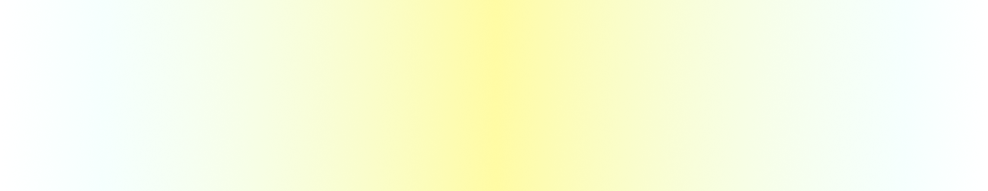
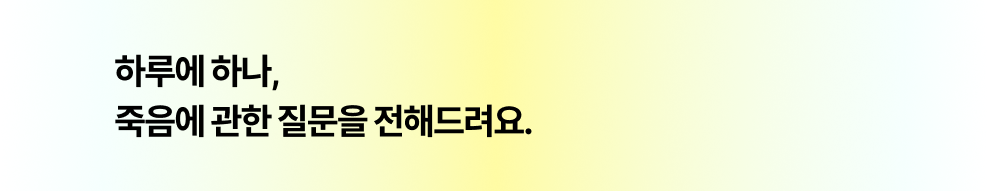
페이지 제작 및 스크롤 고정

Changed region(s): [[0.0911, 0.5497, 0.5466, 0.733], [0.0911, 0.288, 0.3036, 0.4712]]

diff --git a/src/pages/SevenDays.jsx b/src/pages/SevenDays.jsx
@@ -2,11 +2,40 @@ import React from 'react';
 import { Link } from 'react-router-dom';
 import Header from './components/Header';
 import Footer from './components/Footer';
+import SevenDaysQuote from './pageimg/SevenDaysQuote.png';
+import SevenDaysNotice from './pageimg/SevenDaysNotice.png';
+import SevenDaysHowto from './pageimg/SevenDaysHowto.png';
+import StartButton from './pageimg/StartButton.png';
+import './SevenDays.css';
+
 
 const SevenDays = () => {
     return (
         <>
         <Header/>
+        <br/><br/>
+        <div id="container">
+            <div class="contents">
+                <img className="sevendaysnotice" alt="sevendaysnotice" src={SevenDaysNotice} />
+            </div>
+        </div>
+        <br/><br/>
+        <div id="container">
+            <div class="contents">
+                <img className="sevendaysquote" alt="sevendaysquote" src={SevenDaysQuote} />
+            </div>
+        </div>
+        <br/><br/>
+        <div id="container">
+            <div class="contents">
+                <img className="sevendayshowto" alt="sevendayshowto" src={SevenDaysHowto} />
+            </div>
+        </div>
+        <br/><br/>
+        <div> <p>문답을 시작하시겠어요?</p> </div>
+        <div class="contents">
+            <Link to ="/dayone"><img alt="start" src={StartButton} /></Link>
+        </div>
         <Footer/>
         </>
     );

diff --git a/src/pages/DayOne.jsx b/src/pages/DayOne.jsx
@@ -1,16 +1,16 @@
 import React from 'react';
 import { Link } from 'react-router-dom';
 import Header from './components/Header';
-import SevenDayNotice from './pageimg/SevenDayNotice.png';
+import SevenDaysNotice from './pageimg/SevenDaysNotice.png';
 import './DayOne.css';
 import SevenDaysCard from './components/SevenDaysCard';
 
-const LoginPage = () => {
+const DayOne = () => {
     return (
         <>
         <Header/>
         <br/><br/><br/>
-        <div class="notice"><img alt="notice"src={SevenDayNotice} /></div>
+        <div class="notice"><img alt="notice"src={SevenDaysNotice} /></div>
         <br/><br/><br/>
         <SevenDaysCard/>
         <br/><br/><br/>
@@ -18,4 +18,4 @@ const LoginPage = () => {
     );
 };
 
-export default LoginPage;
+export default DayOne;

diff --git a/src/App.jsx b/src/App.jsx
@@ -6,6 +6,7 @@ import Home from './pages/Home';
 import AboutOtr from './pages/AboutOtr';
 import SevenDays from './pages/SevenDays';
 import LoginPage from './pages/LoginPage';
+import DayOne from './pages/DayOne';
 
 class App extends Component {
   render() {
@@ -16,6 +17,7 @@ class App extends Component {
         <Route path="/details" element={<AboutOtr/>}></Route>
         <Route path="/sevendays" element={<SevenDays/>}></Route>
         <Route path="/login" element={<LoginPage/>}></Route>
+        <Route path="/dayone" element={<DayOne/>}></Route>
       </Routes>
       </>
     );

diff --git a/src/pages/AboutOtr.jsx b/src/pages/AboutOtr.jsx
@@ -16,7 +16,9 @@ const AboutOtr = () => {
         <br/><br/><br/>
         <div class="contents"><img alt="aboutotr"src={OtrDetail} /></div>
         <br/><br/><br/>
+        <div id="container">
         <div class="contents"><img className="otrcard" alt="otrcard" src={OtrCard} /></div>
+        </div>
         <br/><br/><br/>
         <div class="contents">
             <Link to ="/sevendays"><img alt="start" src={StartButton} /></Link>

diff --git a/src/index.js b/src/index.js
@@ -3,11 +3,13 @@ import ReactDOM from 'react-dom/client';
 import './index.css';
 import App from './App';
 import { BrowserRouter } from 'react-router-dom';
+import ScrollTop from './pages/components/ScrollTop';
 
 const root = ReactDOM.createRoot(document.getElementById('root'));
 root.render(
   <React.StrictMode>
     <BrowserRouter>
+    <ScrollTop/>
       <App />
     </BrowserRouter>
   </React.StrictMode>

diff --git a/src/pages/components/ScrollTop.jsx b/src/pages/components/ScrollTop.jsx
@@ -1,0 +1,12 @@
+import { useEffect } from "react";
+import { useLocation } from "react-router-dom";
+
+export default function ScrollToTop() {
+  const { pathname } = useLocation();
+
+  useEffect(() => {
+    window.scrollTo(0, 0);
+  }, [pathname]);
+
+  return null;
+}

diff --git a/src/pages/SevenDays.css b/src/pages/SevenDays.css
@@ -1,3 +1,16 @@
 .notice {
     text-align: center;
 }
+
+#container {
+    display: flex;
+    justify-content: center;
+    width : 100%;
+}
+
+p {
+    text-align: center;
+    color: gray;
+    font-style: underline;
+    text-decoration: underline;
+}
